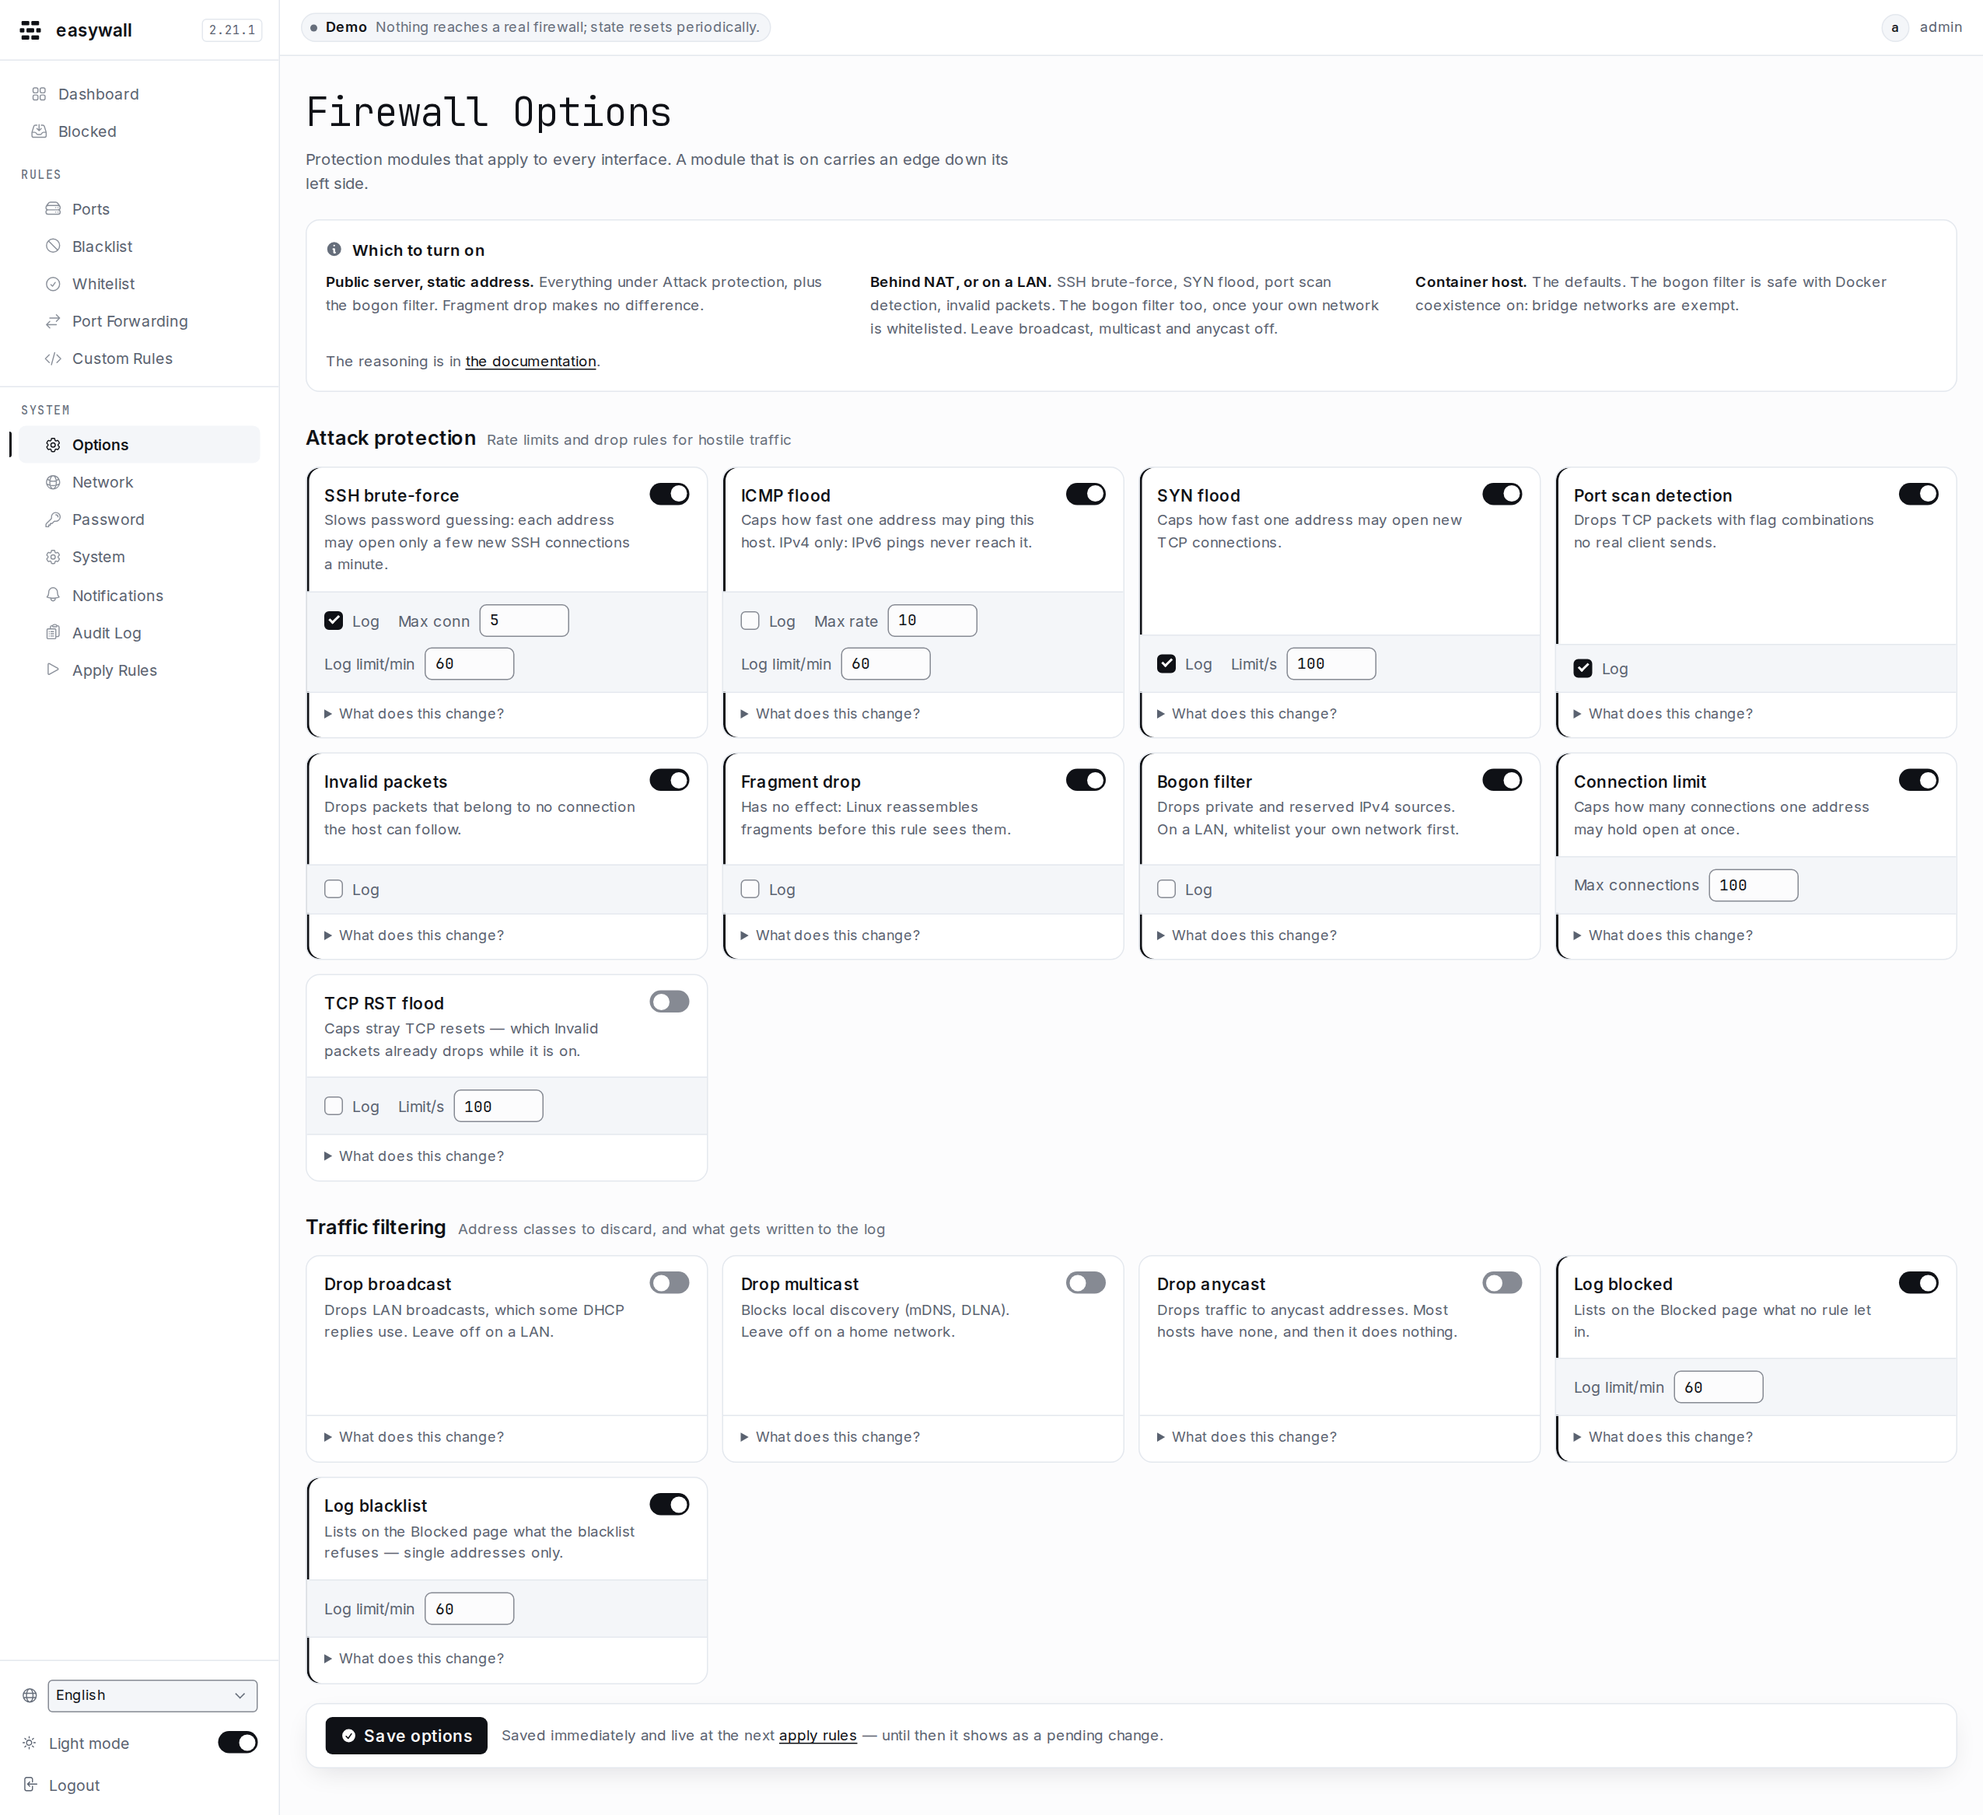
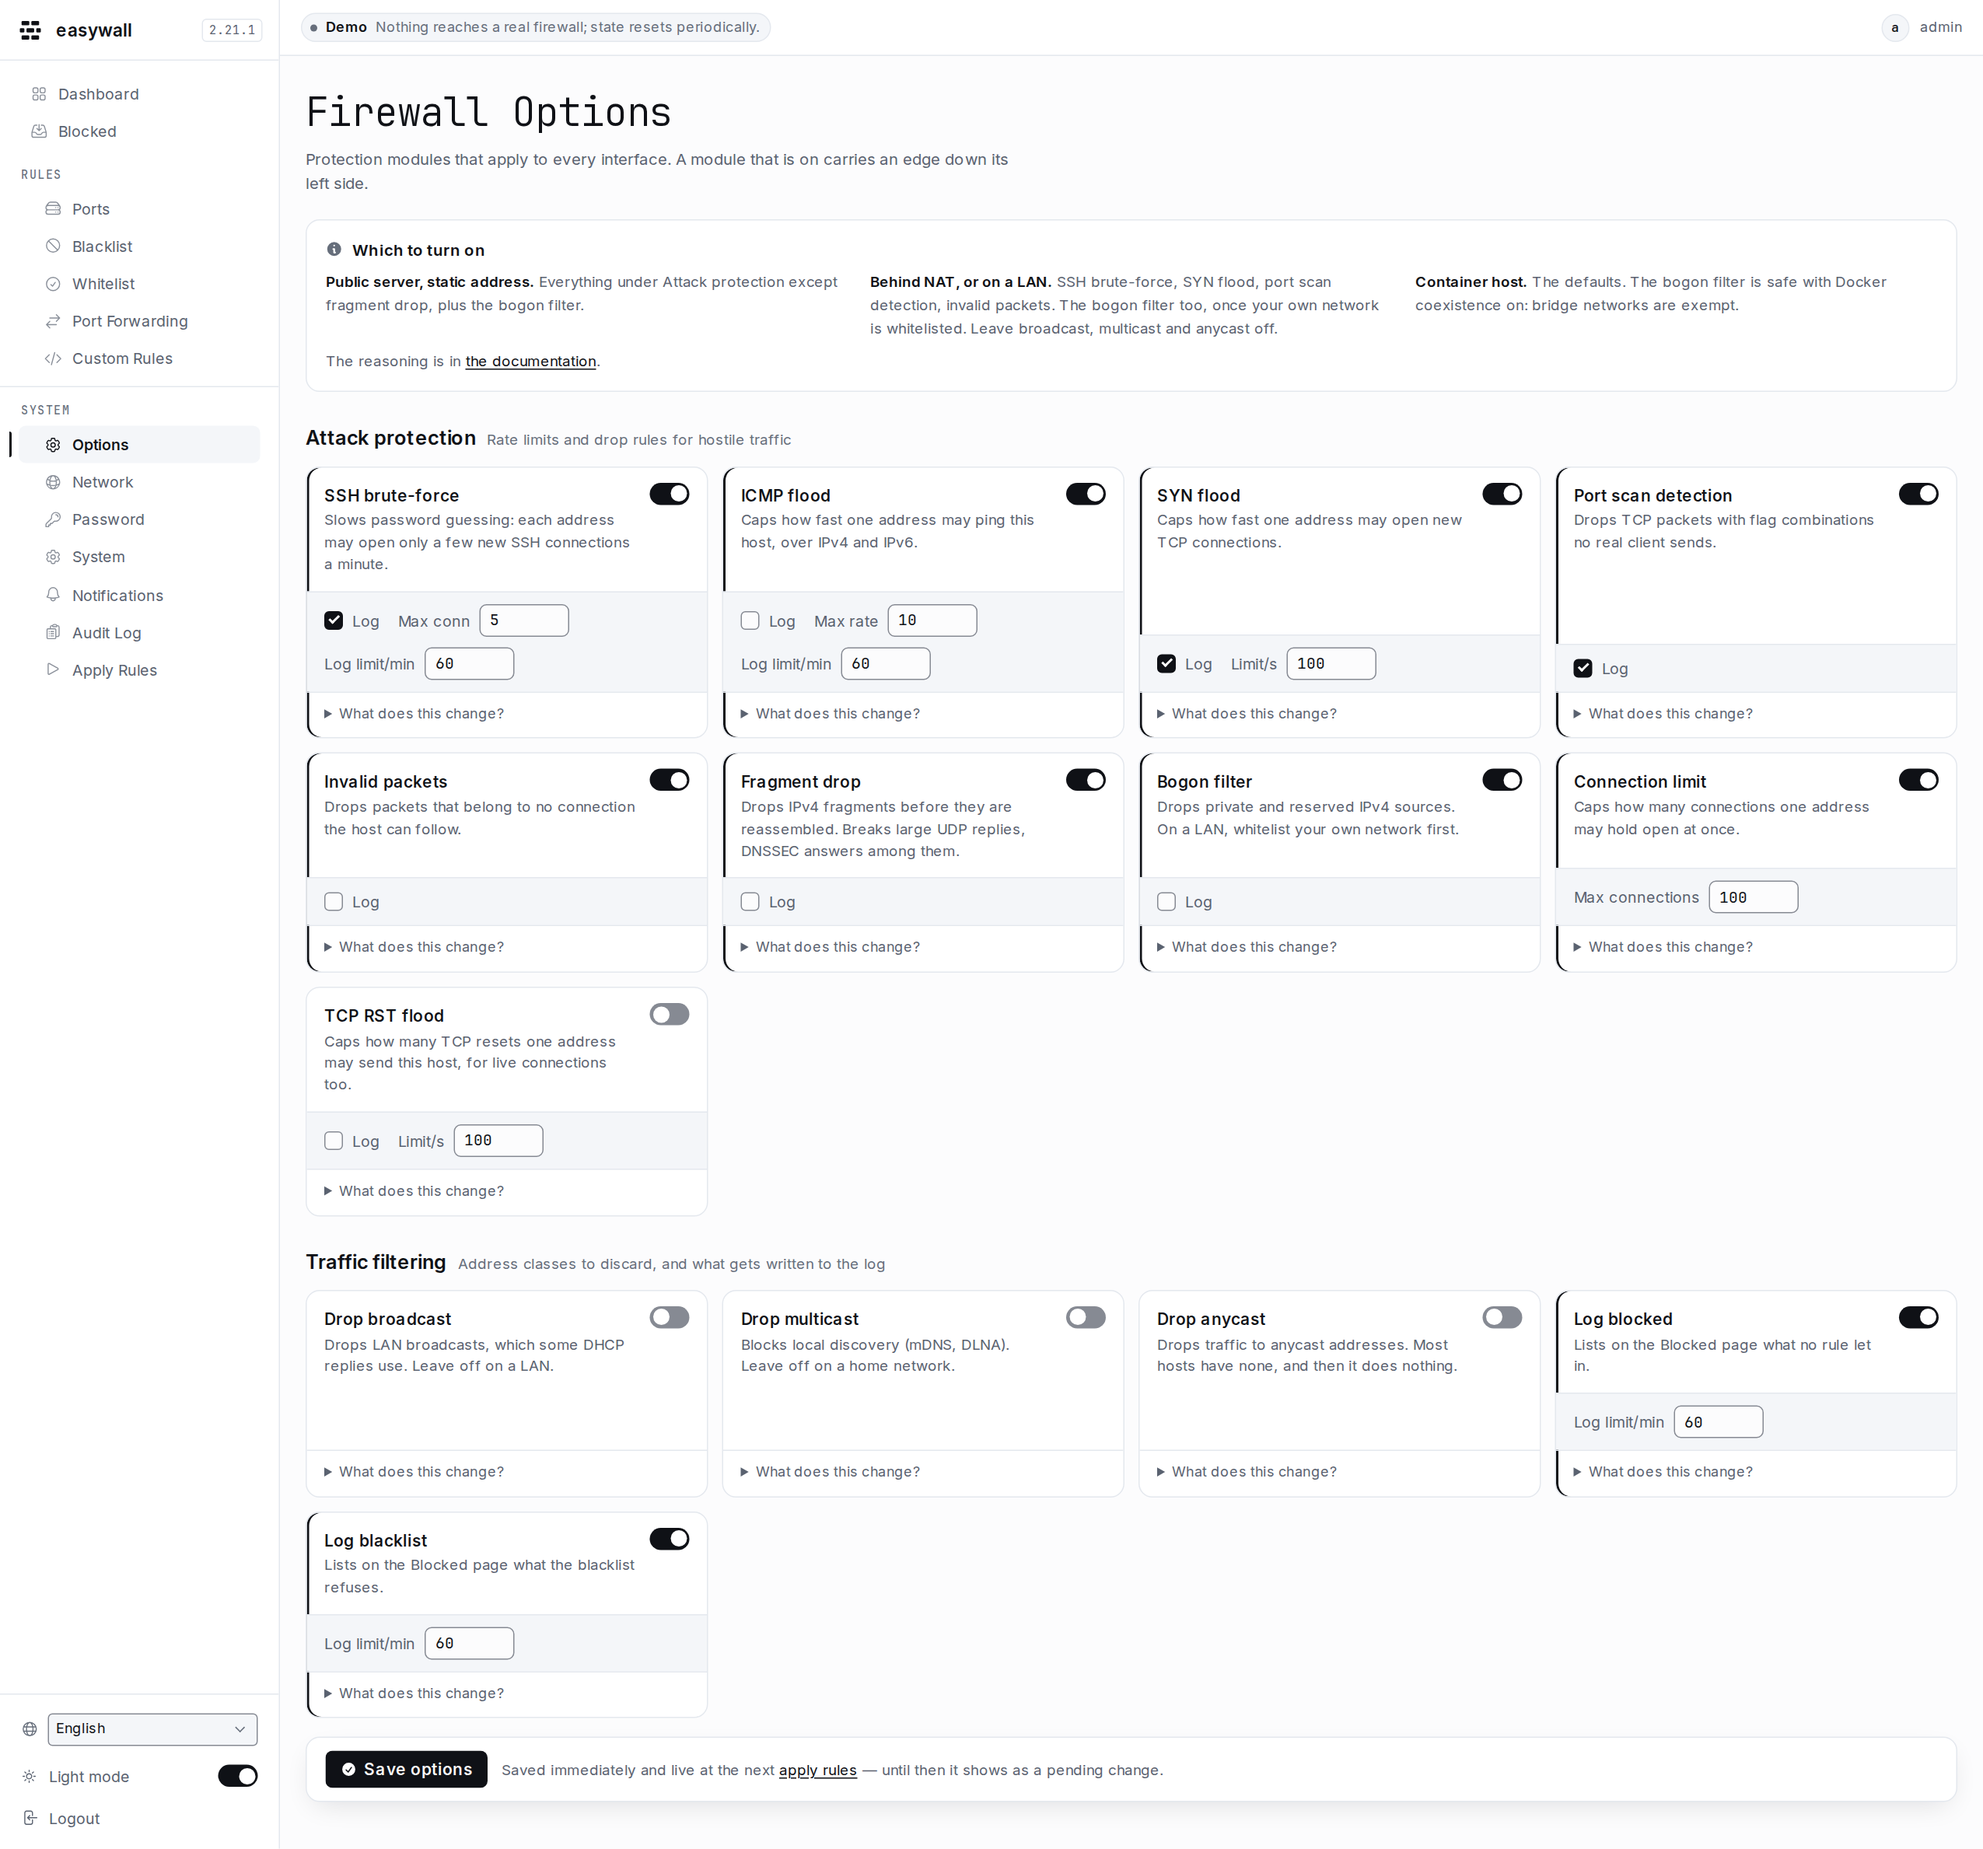
docs: the options copy says what the fixed modules do
Task 6 wrote the fragment-drop, ICMP-flood, RST-flood and blacklist-log
copy against 2.21.1, and said so: no effect, IPv4 only, almost nothing,
single addresses only. None of that is true since the core fix, so the
four cards, the which-card and filters.md now say what the rules do —
and what fragment drop breaks, which until now was nothing.

filters.md's "What three modules never see" gives way to "What fragment
drop breaks"; the three option anchors follow.

Claude-Session: https://claude.ai/code/session_014AiWEEf1yXG1ahTRL1q6hx

diff --git a/internal/web/options_help.go b/internal/web/options_help.go
@@ -28,14 +28,14 @@ func (o optionHelp) DocsURL() string     { return filtersDocsURL + "#" + o.Ancho
 // optionHelps is in the order options.html renders the cards.
 var optionHelps = []optionHelp{
 	{"ssh_brute_force", "attack-protection"},
-	{"icmp_flood", "what-three-modules-never-see"},
+	{"icmp_flood", "attack-protection"},
 	{"syn_flood", "attack-protection"},
 	{"port_scan", "attack-protection"},
 	{"drop_invalid_packets", "attack-protection"},
-	{"drop_fragments", "what-three-modules-never-see"},
+	{"drop_fragments", "what-fragment-drop-breaks"},
 	{"bogon_filter", "what-the-bogon-filter-drops"},
 	{"connection_limit_per_ip", "attack-protection"},
-	{"tcp_rst_flood", "what-three-modules-never-see"},
+	{"tcp_rst_flood", "attack-protection"},
 	{"drop_broadcast", "traffic-filtering"},
 	{"drop_multicast", "traffic-filtering"},
 	{"drop_anycast", "traffic-filtering"},

diff --git a/docs/_docs/features/filters.md b/docs/_docs/features/filters.md
@@ -21,7 +21,7 @@ The question most people arrive with. Details for each module are below.
 
 | Host | Turn on | Leave off |
 |---|---|---|
-| Public server, static address | Everything under Attack protection, plus the bogon filter | Fragment drop — it has no effect, [see below](#what-three-modules-never-see) |
+| Public server, static address | Everything under Attack protection but fragment drop, plus the bogon filter | Fragment drop — it breaks large DNS answers, [see below](#what-fragment-drop-breaks) |
 | Behind NAT, or on a LAN | SSH brute-force, SYN flood, port scan, invalid packets. The bogon filter too, once your own network is whitelisted | Broadcast/multicast/anycast |
 | Container host | The defaults. The bogon filter is safe with Docker coexistence on — bridge networks are exempt | — |
 
@@ -40,8 +40,14 @@ Two things come earlier still: loopback, always, and the [IPv6
 mode]({{ '/docs/features/system-settings/' | relative_url }}) — set to `passthrough` or
 `block`, IPv6 is decided before any module sees it.
 
+Two modules come right after the IPv6 mode, ahead of return traffic: **ICMP flood** and
+**TCP RST flood**. To conntrack, every ping after a source's first and every reset for
+a live connection *is* return traffic, and the accept would let them through unmetered.
+**Fragment drop** runs before all of it, in a chain of its own — see
+[what it breaks](#what-fragment-drop-breaks).
+
 {% include themed-figure.html base="/assets/diagrams/rule-order" ext="svg"
-   alt="Decision flow for an incoming packet: loopback first, then the IPv6 mode, which accepts or drops all IPv6 outright unless it is set to filter; then established connections and ICMP, then protection modules, then Docker bridge networks, then the blacklist which drops, then the whitelist which accepts every port, then open ports, then custom rules, and finally the chain policy which drops." %}
+   alt="Decision flow for an incoming packet: loopback first; then the fragment drop, when it is on; then the IPv6 mode, which accepts or drops all IPv6 outright unless it is set to filter; then the ping and reset rate limits, then established connections and ICMP, then the other protection modules, then Docker bridge networks, then the blacklist which drops, then the whitelist which accepts every port, then open ports, then custom rules, and finally the chain policy which drops." %}
 
 ## Always on
 
@@ -89,14 +95,14 @@ Two things cross that chain:
 | Module | Drops | Tuning | Default |
 |---|---|---|---|
 | **SSH brute-force** | New SSH connections from one source above its rate. Applies to ports marked *SSH protection* on the [ports page]({{ '/docs/features/ports/' | relative_url }}), and to 22 if none is marked | `ssh_brute_force_connection_limit` — 5/min | **on** |
-| **ICMP flood** | IPv4 echo requests (type 8) from one source above its rate. IPv6 pings never reach it | `icmp_flood_connection_limit` — 10/s | **on** |
+| **ICMP flood** | Echo requests from one source above its rate — ICMP type 8 and ICMPv6 type 128 | `icmp_flood_connection_limit` — 10/s | **on** |
 | **SYN flood** | New TCP connections from one source above its rate | `syn_flood_limit` — 100/s | **on** |
 | **Port scan detection** | Seven impossible TCP flag combinations: NULL, FIN alone, SYN+FIN, RST+FIN, SYN+RST, XMAS and all-flags — none of which a real client sends | — | **on** |
 | **Invalid packets** | Packets conntrack cannot match to a connection | — | **on** |
-| **Fragment drop** | Fragmented **IPv4** packets — none arrive, see below | — | off |
+| **Fragment drop** | Fragmented **IPv4** packets to this host, before reassembly — [what it breaks](#what-fragment-drop-breaks) | — | off |
 | **Bogon filter** | Impossible **IPv4** source addresses on a non-loopback interface | — | off |
 | **Connection limit** | Simultaneous connections from one source above its cap | `connection_limit_max` — 100 | off |
-| **TCP RST flood** | Inbound RST packets from one source above its rate, that no connection claims | `tcp_rst_flood_limit` — 100/s | off |
+| **TCP RST flood** | Inbound RST packets from one source above its rate, for a live connection or none | `tcp_rst_flood_limit` — 100/s | off |
 
 > **Every rate is counted per source address** — one kernel counter per address, in a
 > set whose entries expire when that source goes quiet. A flood from one host cannot
@@ -108,13 +114,18 @@ Two things cross that chain:
 Every module runs before the whitelist, so it applies to a whitelisted address like
 any other. Only the bogon filter exempts one.
 
-### What three modules never see
+### What fragment drop breaks
 
-| Module | Never sees | Because |
-|---|---|---|
-| **Fragment drop** | A fragment | Linux reassembles IPv4 fragments before the input chain runs (`ip_local_deliver`). The rule matches nothing |
-| **ICMP flood** | An IPv6 ping | ICMPv6 echo requests are accepted under [Always on](#always-on), before any module |
-| **TCP RST flood** | Most resets | A reset that belongs to a connection is accepted as return traffic. Nearly every other one is *invalid*, and **Invalid packets**, on by default, drops it first |
+The kernel reassembles a fragmented packet before the `input` chain sees it. So this
+module has a chain of its own, `fragments`, at the prerouting hook, ahead of the
+reassembly. It drops IPv4 fragments addressed to this host. IPv6, loopback and traffic
+the host routes are left alone.
+
+That breaks every reply too large for one packet. The one most hosts meet is a DNS
+answer over UDP carrying DNSSEC, and
+[RFC 8900](https://www.rfc-editor.org/rfc/rfc8900#section-6.5) asks operators not to
+filter fragments to or from a DNS server. Until 2.22 the rule sat in `input` and
+matched nothing.
 
 ### What the bogon filter drops
 
@@ -197,7 +208,7 @@ flood must not be able to fill the disk.
 | `drop_invalid_packets_log` | Packets in INVALID state | `easywall invalid:` |
 | `drop_fragments_log` | Fragmented packets | `easywall fragment:` |
 | `bogon_filter_log` | Bogon sources | `easywall bogon:` |
-| `log_blacklist_connections` | Blacklist hits on a single address, before the drop. A network entry is dropped unlogged | `easywall blacklist:` |
+| `log_blacklist_connections` | Blacklist hits, before the drop | `easywall blacklist:` |
 | `log_blocked_connections` | Everything the final policy drops | `easywall drop:` |
 
 Everything these switches log appears on the
